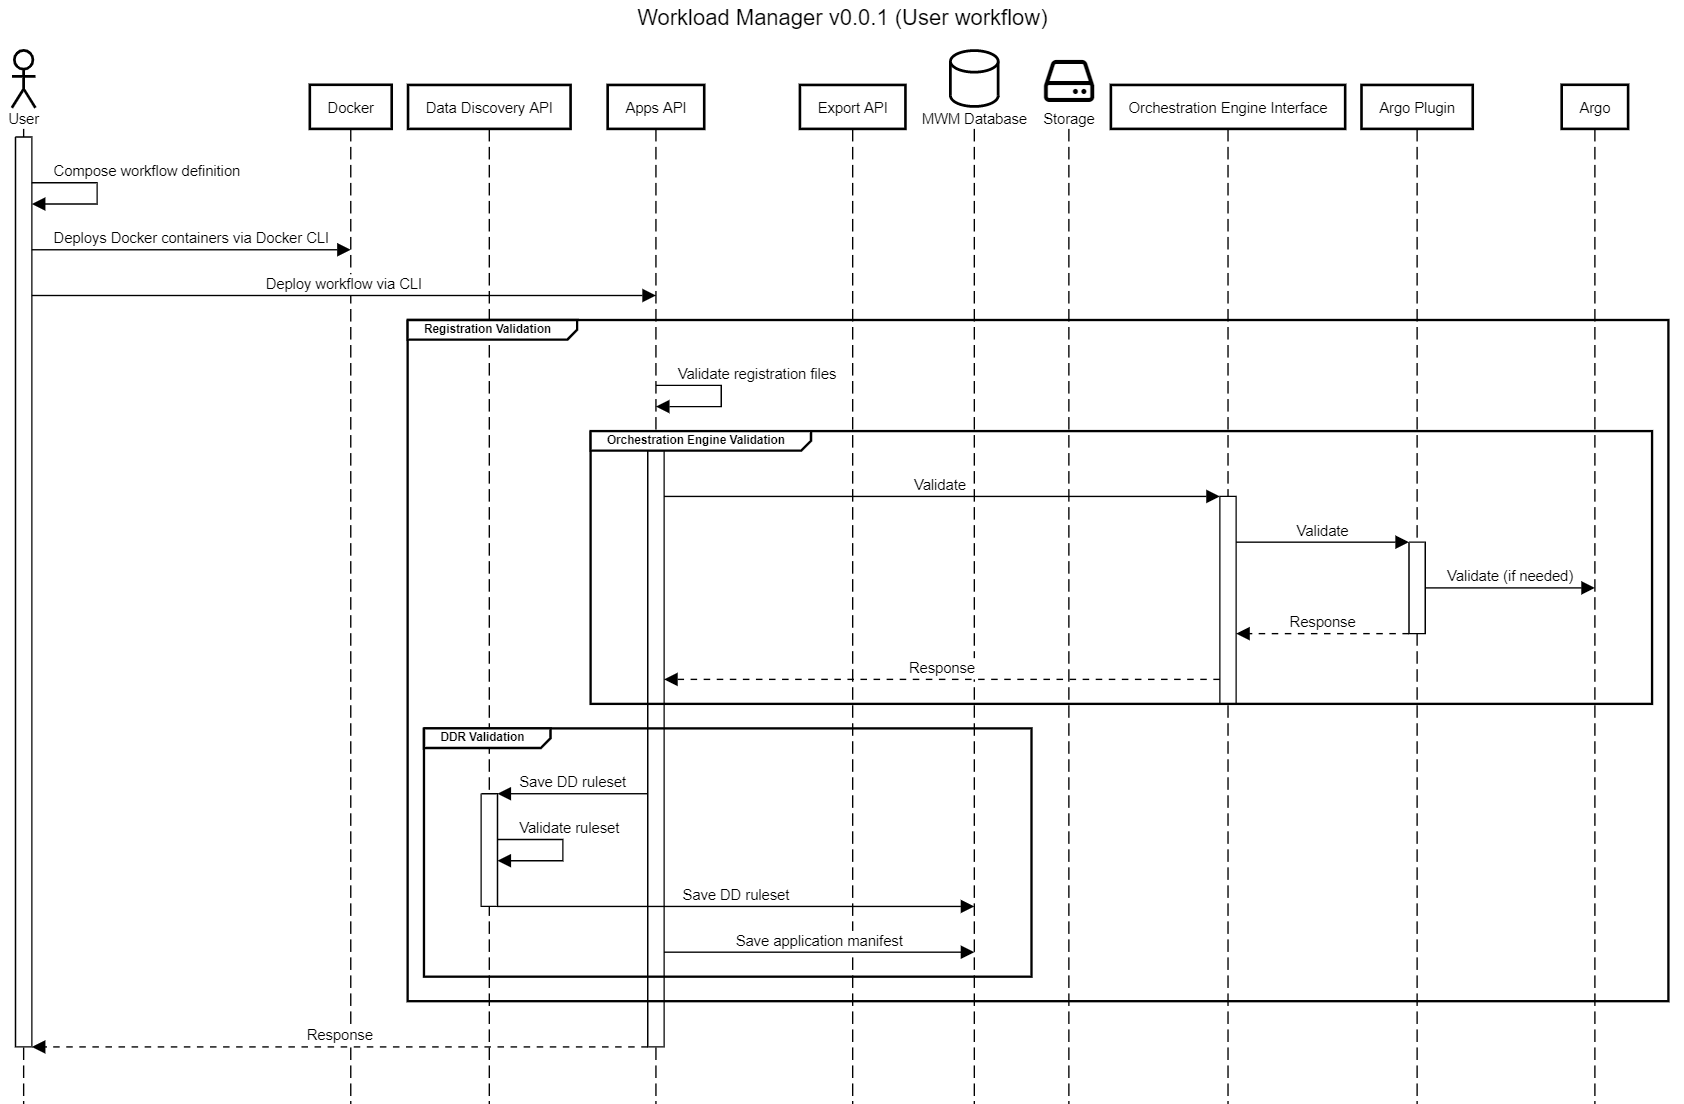
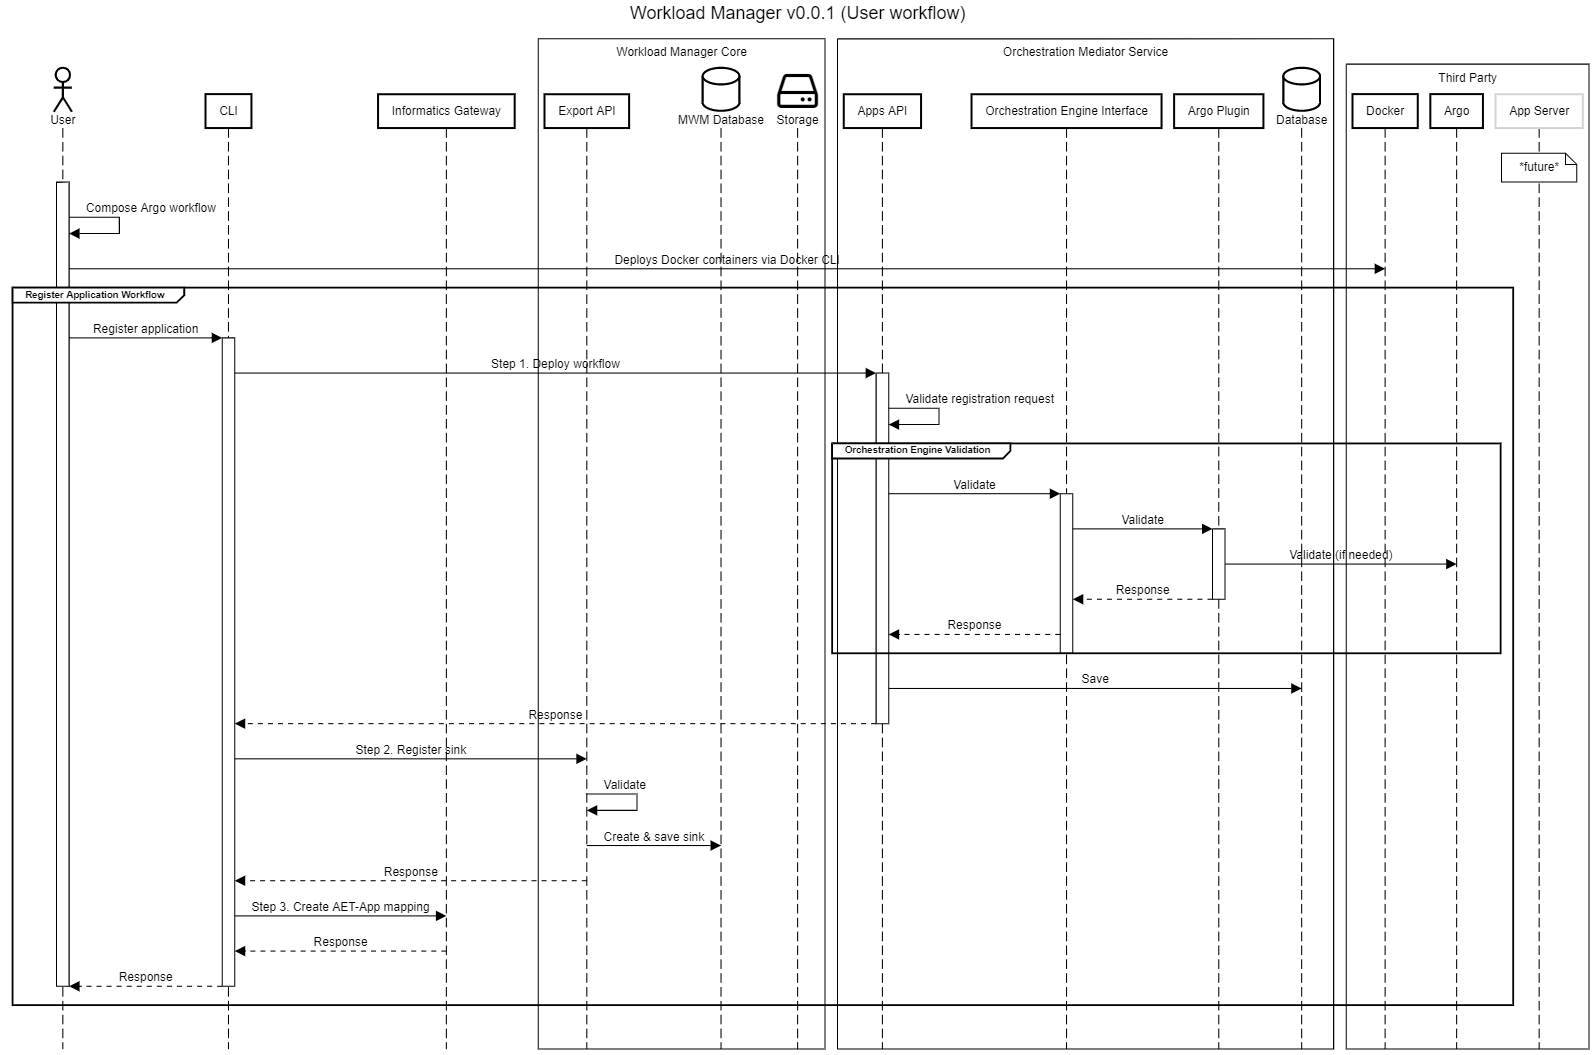
Introduce orchstreation engine service

diff --git a/guidelines/workflow_v001.md b/guidelines/workflow_v001.md
@@ -21,18 +21,32 @@ The following sequence diagram depicts how users deploy a workflow (with a singl
 
 #### Scope
 
-- CLI to do the following register workflow
+
+##### Overall
+- Define MONAI Deploay Workload Manager workflow definition
+  - Output sink(s)
+  - AE Title
+
+##### CLI
+
+A single CLI that interacts with both Workload Manager & OES and possible IG:
+- register argo workflow with OES
+- map application to export sinks
+- map AE title to application (requires IG API)
+
+##### Workload Manager
+
+- Export API
+  - Sink.Create API
+
+##### Orchestration Mediator Service (OMS)
+
 - Apps API
-    - define workflow definition
-    - register workflow API
-    - validate workflow definition
+    - validate & register workflow API
 - Orchestration Engine Plugin Interface
     - validate workflow
 - Argo plugin
     - validate workflow (if needed) may be a no-op
-- (optional) Data Discovery API
-  - API to validate ruleset
-  - API to save ruleset
 
 
 ### Trigger Workflow
@@ -47,7 +61,6 @@ The following sequence diagram depicts how 2 DICOM studies are processed through
     - Payload.Upload API for file uploads
 - Data Discovery Engine
     - eventing system to receive payload arrival notices
-    - (optional) applies data routing ruleset
     - creates buckets to store files
 - Job Scheduling Service
     - Data bucket management for storing matching files, timer management, job scheduling (simply save to DB)
